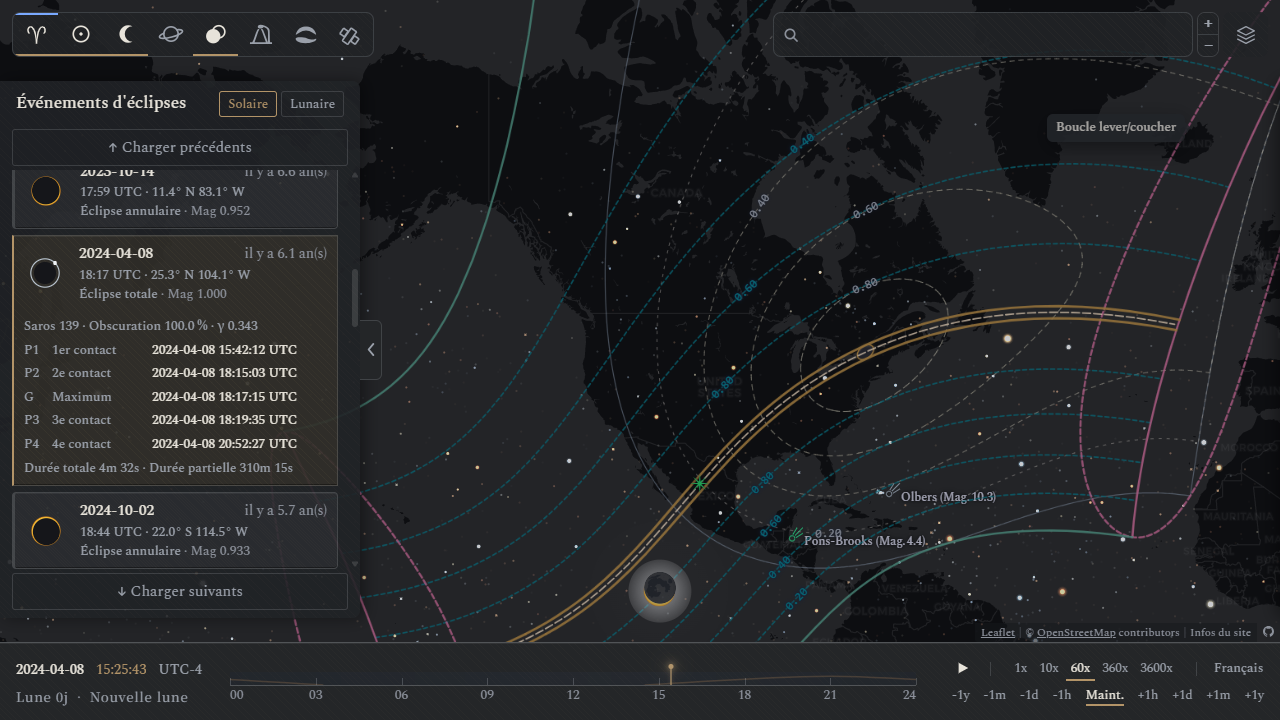
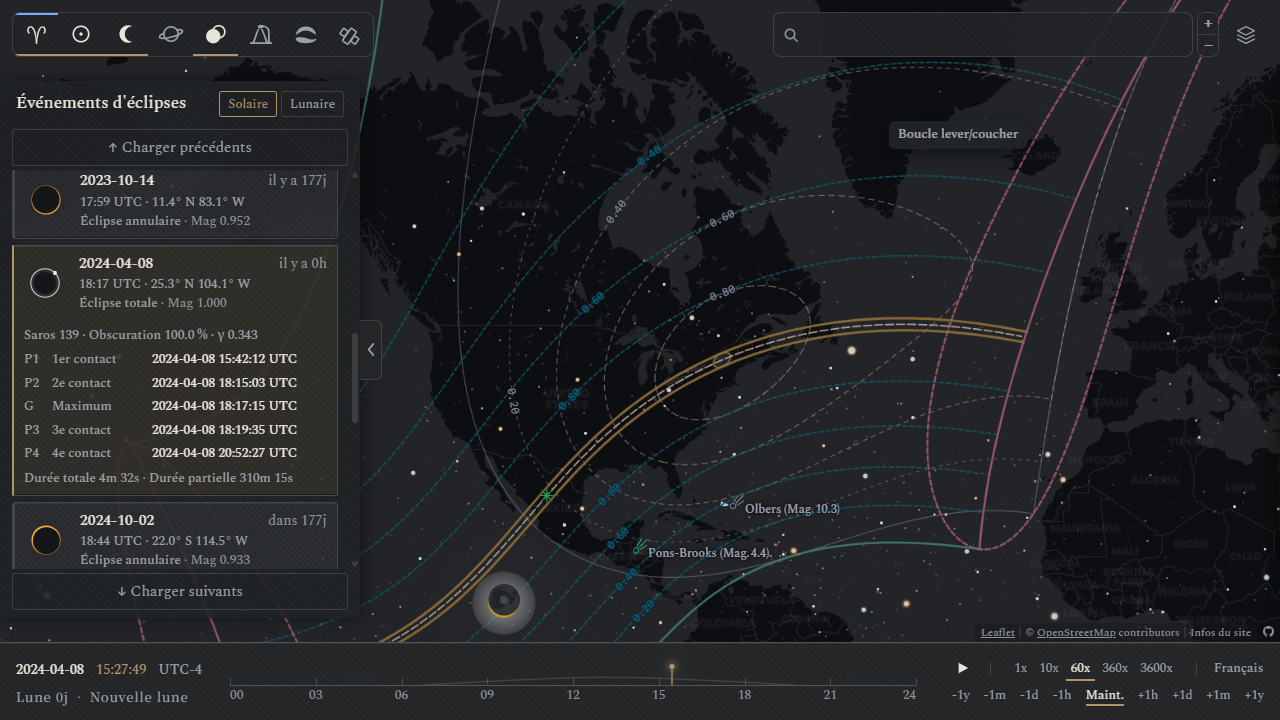
docs(readme): fix CJK bold rendering and half-width punctuation
Move the colon outside the span (**注**：). Use the fullwidth full stop ． after half-width content. Replaced a screenshot.

diff --git a/README.md b/README.md
@@ -28,7 +28,7 @@ The Substellar Atlas takes the *substellar point* as its guiding idea: it projec
 
 ### 图层说明
 
-地图图层采用暗色主题，默认 CARTO Dark Matter，可切换 Stadia Alidade Smooth Dark。网站开发/集成的数据图层则有：
+地图图层采用暗色主题，默认 CARTO Dark Matter，可切换 Stadia Alidade Smooth Dark．网站开发/集成的数据图层则有：
 
 | 类别 | 功能 |
 |---|---|
@@ -76,9 +76,9 @@ The Substellar Atlas takes the *substellar point* as its guiding idea: it projec
 
 ### 日月食（2000–2049 年）
 
-本项目提供的日食数据集含用于计算日食事件接触时刻、位置的贝塞尔元素，以及表征整起事件食况范围的地面包络曲线（本影中心线、本影南北限、等食分线、半影南北线、日出/日落极大食线、日出日落圈等），月食数据集则仅含索引。现收录 2000–2049 年间的 112 次日食和 114 次月食。计算中使用到的太阳、月球位置矢量来自 [Astronomy Engine](https://github.com/cosinekitty/astronomy) 2.1.19。
+本项目提供的日食数据集含用于计算日食事件接触时刻、位置的贝塞尔元素，以及表征整起事件食况范围的地面包络曲线（本影中心线、本影南北限、等食分线、半影南北线、日出/日落极大食线、日出日落圈等），月食数据集则仅含索引。现收录 2000–2049 年间的 112 次日食和 114 次月食。计算中使用到的太阳、月球位置矢量来自 [Astronomy Engine](https://github.com/cosinekitty/astronomy) 2.1.19．
 
-**注：**日食的实时阴影和食况范围，以及月食的食况范围在运行时计算
+**注**：日食的实时阴影和食况范围，以及月食的食况范围在运行时计算
 
 **目录结构**
 
@@ -115,7 +115,7 @@ The Substellar Atlas takes the *substellar point* as its guiding idea: it projec
 
 ## 致谢和许可
 
-本项目自有代码以 **GNU General Public License v3.0** 发布，详情参见 [LICENSE](LICENSE)。 第三方代码、数据、字体依其许可。
+本项目自有代码以 **GNU General Public License v3.0** 发布，详情参见 [LICENSE](LICENSE)． 第三方代码、数据、字体依其许可。
 
 | 用途 | 组件 (版本) | 作者 / 来源 | 许可 |
 |---|---|---|---|

diff --git a/zh-Hant/README.md b/zh-Hant/README.md
@@ -26,7 +26,7 @@
 
 ### 圖層說明
 
-地圖圖層採用暗色主題，預設 CARTO Dark Matter，可切換 Stadia Alidade Smooth Dark。網站開發/整合的數據圖層則有：
+地圖圖層採用暗色主題，預設 CARTO Dark Matter，可切換 Stadia Alidade Smooth Dark．網站開發/整合的數據圖層則有：
 
 | 類別 | 功能 |
 |---|---|
@@ -74,9 +74,9 @@
 
 ### 日月食（2000–2049 年）
 
-本項目提供的日食數據集含用於計算日食事件接觸時刻、位置的貝塞爾元素，以及表徵整起事件食況範圍的地面包絡曲線（本影中心線、本影南北限、等食分線、半影南北線、日出/日落極大食線、日出日落圈等），月食數據集則僅含索引。現收錄 2000–2049 年間的 112 次日食和 114 次月食。計算中使用到的太陽、月球位置向量來自 [Astronomy Engine](https://github.com/cosinekitty/astronomy) 2.1.19。
+本項目提供的日食數據集含用於計算日食事件接觸時刻、位置的貝塞爾元素，以及表徵整起事件食況範圍的地面包絡曲線（本影中心線、本影南北限、等食分線、半影南北線、日出/日落極大食線、日出日落圈等），月食數據集則僅含索引。現收錄 2000–2049 年間的 112 次日食和 114 次月食。計算中使用到的太陽、月球位置向量來自 [Astronomy Engine](https://github.com/cosinekitty/astronomy) 2.1.19．
 
-**註：**日食的即時陰影和食況範圍，以及月食的食況範圍在執行時計算
+**註**：日食的即時陰影和食況範圍，以及月食的食況範圍在執行時計算
 
 **目錄結構**
 
@@ -113,7 +113,7 @@
 
 ## 致謝與授權
 
-本項目自有程式碼以 **GNU General Public License v3.0** 發佈，詳情參見 [LICENSE](../LICENSE)。第三方程式碼、數據、字型依其授權。
+本項目自有程式碼以 **GNU General Public License v3.0** 發佈，詳情參見 [LICENSE](../LICENSE)．第三方程式碼、數據、字型依其授權。
 
 | 用途 | 組件 (版本) | 作者 / 來源 | 授權 |
 |---|---|---|---|

diff --git a/zh-Hans/README.md b/zh-Hans/README.md
@@ -76,7 +76,7 @@
 
 本项目提供的日食数据集含用于计算日食事件接触时刻、位置的贝塞尔元素，以及表征整起事件食况范围的地面包络曲线（本影中心线、本影南北限、等食分线、半影南北线、日出/日落极大食线、日出日落圈等），月食数据集则仅含索引。现收录 2000–2049 年间的 112 次日食和 114 次月食。计算中使用到的太阳、月球位置矢量来自 [Astronomy Engine](https://github.com/cosinekitty/astronomy) 2.1.19．
 
-**注：**日食的实时阴影和食况范围，以及月食的食况范围在运行时计算
+**注**：日食的实时阴影和食况范围，以及月食的食况范围在运行时计算
 
 **目录结构**
 